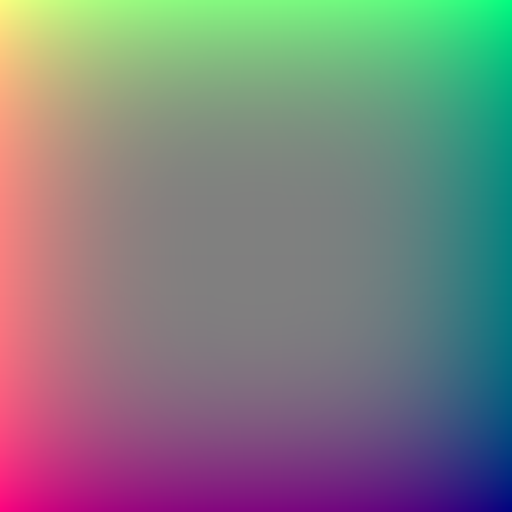
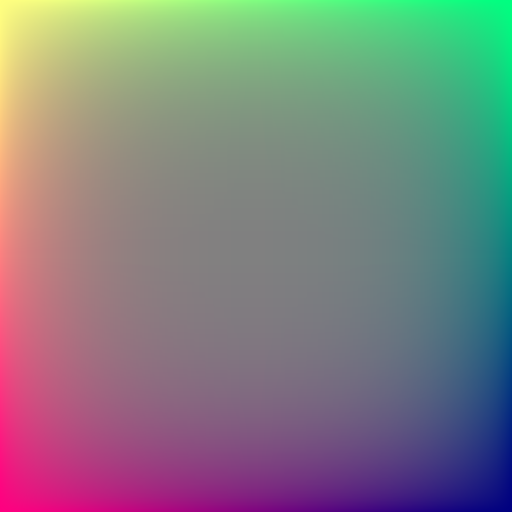
Add glass element style and add background example image for testing the refraction

diff --git a/app.js b/app.js
@@ -182,7 +182,7 @@ const createGlassElement = ({
     const getGlassStyles = (state) => {
         const b = borderWidth;
         return {
-            width: `${Math.max(0, state.w - (b * 2))}px`,
+            width:  `${Math.max(0, state.w - (b * 2))}px`,
             height: `${Math.max(0, state.h - (b * 2))}px`,
             transform: `translate(${(state.x || 0) + b}px, ${(state.y || 0) + b}px)`,
             borderRadius: `${Math.max(0, (state.tl || 0) - b)}px ${Math.max(0, (state.tr || 0) - b)}px ${Math.max(0, (state.br || 0) - b)}px ${Math.max(0, (state.bl || 0) - b)}px`
@@ -219,17 +219,17 @@ const createGlassElement = ({
         // Top-left highlight
         const stop1 = document.createElementNS(ns, "stop");
         stop1.setAttribute("offset", "0%");
-        stop1.setAttribute("stop-color", "rgba(255, 255, 255, 0.5)");
+        stop1.setAttribute("stop-color", "rgba(255, 255, 255, 0.6)");
 
         // Center fade (transparent to let the background through)
         const stop2 = document.createElementNS(ns, "stop");
         stop2.setAttribute("offset", "40%");
-        stop2.setAttribute("stop-color", "rgba(255, 255, 255, 0.05)");
+        stop2.setAttribute("stop-color", "rgba(255, 255, 255, 0.2)");
 
         // Bottom-right ambient bounce light
         const stop3 = document.createElementNS(ns, "stop");
         stop3.setAttribute("offset", "100%");
-        stop3.setAttribute("stop-color", "rgba(255, 255, 255, 0.25)");
+        stop3.setAttribute("stop-color", "rgba(255, 255, 255, 0.4)");
 
         gradient.appendChild(stop1);
         gradient.appendChild(stop2);
@@ -318,19 +318,19 @@ const fluidElement = createFluidElement({
     options: {
         duration: 900,
         easing: 'cubic-bezier(.3,1,0,1)',
-        fill: '#222',
-        stroke: '#555',
+        fill: '#f7f7f7',
+        stroke: '#ffffff',
         strokeWidth: 1
     }
 });
 
 const glassElement = createGlassElement({
-    initState: { x: 100, y: 40, w: 200, h: 60,  tl: 30, tr: 30, br: 30, bl: 30 },
+    initState: { x: 100, y: 0, w: 200, h: 60,  tl: 30, tr: 30, br: 30, bl: 30 },
     altState:  { x: 0,   y: 0,  w: 400, h: 100, tl: 20, tr: 20, br: 20, bl: 20 },
     options: {
         duration: 900,
         easing: 'cubic-bezier(.3,1,0,1)',
-        fill: '#ffffff08',
+        fill: '#ffffff18',
         border: 'glass',
         filterUrl: 'url("#displacementFilter")',
     }

diff --git a/index.html b/index.html
@@ -29,13 +29,16 @@
                 primitiveUnits="objectBoundingBox"
                 preserveAspectRatio="none"
             />
-            <feGaussianBlur in="SourceGraphic" stdDeviation="0.006" result="blurredSource" />
+            <feGaussianBlur in="SourceGraphic" stdDeviation="0.01" result="blurredSource" />
             <feDisplacementMap
                 in="blurredSource"
                 in2="displacementMap"
-                scale=".2"
+                scale=".15"
                 xChannelSelector="R"
-                yChannelSelector="G" />
+                yChannelSelector="G"
+                result="displaced"
+            />
+            <feGaussianBlur in="displaced" stdDeviation="0.005" ></feGaussianBlur>
         </filter>
     </svg>
 </body>

diff --git a/style.css b/style.css
@@ -31,4 +31,6 @@ html, body {
     gap: 20px;
     align-items: center;
     justify-content: center;
+    background-image: url('background.jpg');
+    background-size: cover;
 }
